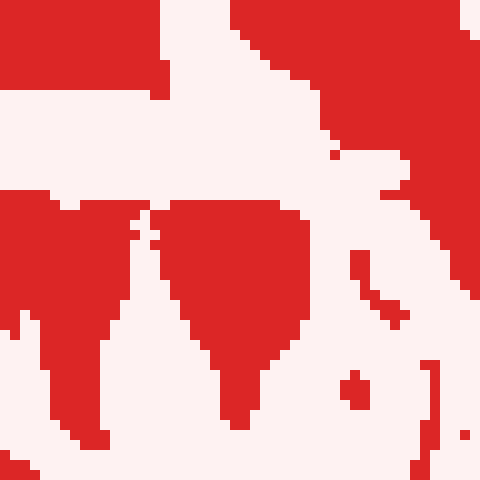
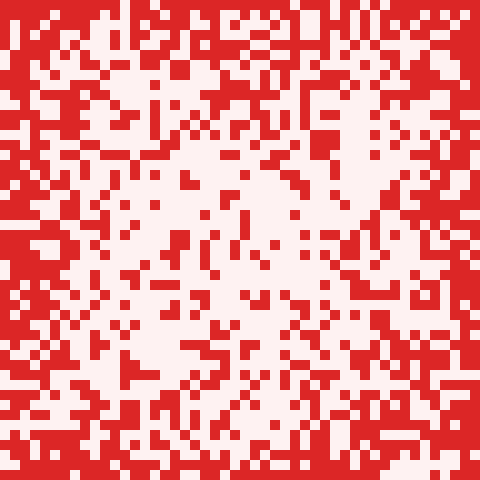
feat: Rework pattern generation for even pixel scatter and edge density
- Replace low-frequency value noise + domain warping with high-frequency
  fractal noise (baseScale /10-26, 4-6 octaves, amp falloff 0.75)
- Mix 35-65% per-pixel white noise to break up coherent blobs
- Add edge bias (pow 2.5 falloff) so pixels cluster densely along borders
- Remove domain warping that created map-like continental patterns
- Regenerate all 5 sample PNGs with the new algorithm

https://claude.ai/code/session_018LHjGY6KRuveAUgNLBsNLq

diff --git a/App.tsx b/App.tsx
@@ -74,13 +74,11 @@ function generatePattern(
   const seed = Math.floor(Math.random() * 999999);
   const rng = mulberry32(seed);
 
-  // Randomize noise parameters for pattern variety
-  const baseScale = Math.max(width, height) / (2 + rng() * 5);
-  const octaves = 2 + Math.floor(rng() * 3);
-  const useWarp = rng() > 0.3;
-  const warpStrength = useWarp ? 0.5 + rng() * 3 : 0;
+  // High-frequency noise for fine-grained, scattered pixels (not blobs)
+  const baseScale = Math.max(width, height) / (10 + rng() * 16);
+  const octaves = 4 + Math.floor(rng() * 3);
 
-  // Multi-octave fractal noise
+  // Multi-octave fractal noise with strong high-frequency emphasis
   let noise: number[][] = Array.from({ length: height }, () =>
     new Array(width).fill(0)
   );
@@ -96,7 +94,7 @@ function generatePattern(
       }
     }
     totalAmplitude += amplitude;
-    amplitude *= 0.5;
+    amplitude *= 0.75; // slower falloff keeps high-frequency detail strong
   }
 
   // Normalize to 0..1
@@ -106,38 +104,29 @@ function generatePattern(
     }
   }
 
-  // Domain warping for more organic, swirly patterns
-  if (useWarp) {
-    const warpNoiseX = valueNoise2D(width, height, baseScale * 0.7, rng);
-    const warpNoiseY = valueNoise2D(width, height, baseScale * 0.7, rng);
-
-    const warped: number[][] = Array.from({ length: height }, () =>
-      new Array(width).fill(0)
-    );
-    for (let y = 0; y < height; y++) {
-      for (let x = 0; x < width; x++) {
-        const wx = Math.min(
-          width - 1,
-          Math.max(
-            0,
-            Math.round(
-              x + (warpNoiseX[y][x] - 0.5) * warpStrength * baseScale
-            )
-          )
-        );
-        const wy = Math.min(
-          height - 1,
-          Math.max(
-            0,
-            Math.round(
-              y + (warpNoiseY[y][x] - 0.5) * warpStrength * baseScale
-            )
-          )
-        );
-        warped[y][x] = noise[wy][wx];
-      }
+  // Mix in per-pixel white noise to break up coherent blobs
+  const whiteNoiseWeight = 0.35 + rng() * 0.3; // 35-65% white noise
+  for (let y = 0; y < height; y++) {
+    for (let x = 0; x < width; x++) {
+      noise[y][x] =
+        noise[y][x] * (1 - whiteNoiseWeight) + rng() * whiteNoiseWeight;
     }
-    noise = warped;
+  }
+
+  // Edge bias: boost density near image borders
+  const edgeStrength = 0.18 + rng() * 0.14;
+  const halfW = width / 2;
+  const halfH = height / 2;
+  for (let y = 0; y < height; y++) {
+    for (let x = 0; x < width; x++) {
+      // Normalized distance from nearest edge: 0 at edge, 1 at center
+      const dx = Math.min(x, width - 1 - x) / halfW;
+      const dy = Math.min(y, height - 1 - y) / halfH;
+      const distFromEdge = Math.min(dx, dy);
+      // Smooth falloff curve: strongly boosts pixels within ~20% of the edge
+      const edgeFactor = Math.pow(1 - distFromEdge, 2.5);
+      noise[y][x] += edgeFactor * edgeStrength;
+    }
   }
 
   // Determine threshold to achieve the desired fill percentage
